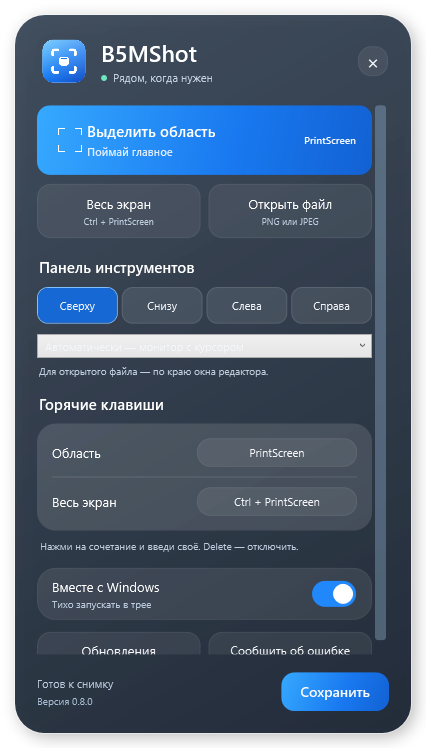
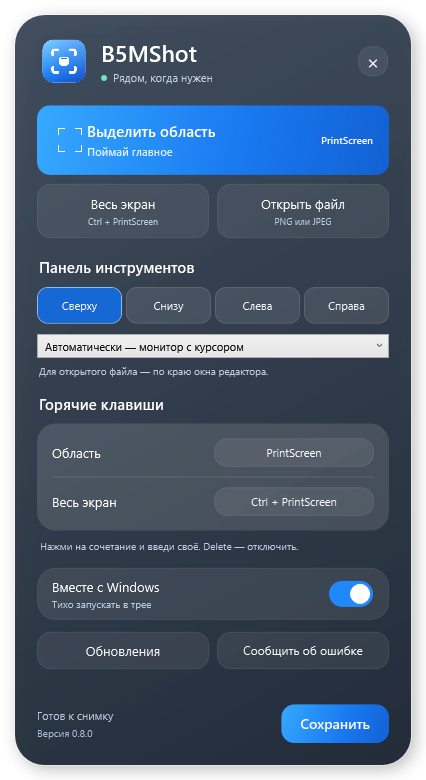
Polish release settings and align COM exports with Windows SDK

Changed region(s): [[0.061, 0.0615, 0.9155, 0.9532], [0.8545, 0.0615, 0.885, 0.0922]]

diff --git a/src/B5MShot.App/MainWindow.xaml b/src/B5MShot.App/MainWindow.xaml
@@ -1,7 +1,7 @@
 <Window x:Class="B5MShot.App.MainWindow"
  xmlns="http://schemas.microsoft.com/winfx/2006/xaml/presentation" xmlns:x="http://schemas.microsoft.com/winfx/2006/xaml"
  xmlns:motion="clr-namespace:B5MShot.App.Controls"
- Title="B5MShot" Icon="/Assets/logo.png" Width="426" Height="748"
+ Title="B5MShot" Icon="/Assets/logo.png" Width="426" Height="780"
  WindowStyle="None" ResizeMode="NoResize" ShowInTaskbar="False" WindowStartupLocation="Manual"
  Topmost="True" AllowsTransparency="True" Background="Transparent" PreviewKeyDown="Window_PreviewKeyDown">
  <Window.Resources>
@@ -56,7 +56,7 @@
       </Grid>
       <TextBlock Text="Панель инструментов" Foreground="White" FontSize="15" FontWeight="SemiBold" Margin="2,0,0,8"/>
       <UniformGrid x:Name="EdgeChoices" Columns="4" Margin="-2,0,-2,8"><RadioButton Content="Сверху" Tag="Top" GroupName="HudEdge" Style="{StaticResource EdgeChoice}"/><RadioButton Content="Снизу" Tag="Bottom" GroupName="HudEdge" Style="{StaticResource EdgeChoice}"/><RadioButton Content="Слева" Tag="Left" GroupName="HudEdge" Style="{StaticResource EdgeChoice}"/><RadioButton Content="Справа" Tag="Right" GroupName="HudEdge" Style="{StaticResource EdgeChoice}"/></UniformGrid>
-      <ComboBox x:Name="ToolbarMonitorBox" DisplayMemberPath="Label" SelectedValuePath="DeviceName" FontSize="11" Padding="8,5" Margin="0,0,0,6" AutomationProperties.Name="Монитор для панели инструментов"/>
+      <ComboBox x:Name="ToolbarMonitorBox" SelectedValuePath="DeviceName" FontSize="11" Padding="8,5" Margin="0,0,0,6" AutomationProperties.Name="Монитор для панели инструментов"><ComboBox.ItemTemplate><DataTemplate><TextBlock Text="{Binding Label}" Foreground="#111111" FontSize="11"/></DataTemplate></ComboBox.ItemTemplate></ComboBox>
       <TextBlock Text="Для открытого файла — по краю окна редактора." Foreground="#C0CEDF" FontSize="10" Margin="2,0,0,16"/>
       <TextBlock Text="Горячие клавиши" Foreground="White" FontSize="15" FontWeight="SemiBold" Margin="2,0,0,10" motion:Motion.TextReveal="True"/>
       <Border Background="#20FFFFFF" BorderBrush="#20FFFFFF" BorderThickness="1" CornerRadius="18" Padding="14,4">

diff --git a/src/B5MShot.App/Views/UpdateWindow.xaml.cs b/src/B5MShot.App/Views/UpdateWindow.xaml.cs
@@ -46,7 +46,7 @@ public partial class UpdateWindow : Window
             Process.Start(new ProcessStartInfo(installer) { UseShellExecute = true });
             ((App)System.Windows.Application.Current).ExitApplication();
         }
-        catch(OperationCanceledException) { }
+        catch(OperationCanceledException) { if(IsVisible && !_download.IsCancellationRequested) ReleaseNotesText.Text="Загрузка заняла слишком много времени. Проверьте соединение и повторите попытку."; }
         catch (Exception exception)
         {
             ErrorLogService.Write(exception, "Installing update");

diff --git a/src/B5MShot.ContextMenu/ExplorerCommand.cpp b/src/B5MShot.ContextMenu/ExplorerCommand.cpp
@@ -315,7 +315,7 @@ extern "C" BOOL WINAPI DllMain(HINSTANCE instance, DWORD reason, LPVOID)
     return TRUE;
 }
 
-extern "C" __declspec(dllexport) HRESULT WINAPI DllGetClassObject(REFCLSID clsid, REFIID iid, void** object)
+STDAPI DllGetClassObject(REFCLSID clsid, REFIID iid, void** object)
 {
     if (clsid != CommandClsid)
     {
@@ -333,7 +333,7 @@ extern "C" __declspec(dllexport) HRESULT WINAPI DllGetClassObject(REFCLSID clsid
     return result;
 }
 
-extern "C" __declspec(dllexport) HRESULT WINAPI DllCanUnloadNow()
+STDAPI DllCanUnloadNow()
 {
     return g_objectCount == 0 && g_serverLocks == 0 ? S_OK : S_FALSE;
 }

diff --git a/CHANGELOG.md b/CHANGELOG.md
@@ -1,5 +1,15 @@
 # История изменений
 
+## 0.8.0
+
+- панель с четырёх сторон экрана, выбор монитора и сохранение расположения;
+- вертикальные боковые инструменты и палитра, раскрывающаяся внутрь;
+- единый стеклянный стиль приложения, трея, сайта и обновлённые логотипы;
+- плавные прерываемые анимации, чёткая обводка и ускоренный захват;
+- автоматическая проверка GitHub Releases и подтверждаемая установка с SHA-256;
+- установщик больше не закрывает несохранённые редакторы принудительно;
+- полноценный подписанный установщик, переносимая версия и контрольные суммы.
+
 ## 0.6.0
 
 - добавлен единый установщик с подтверждением прав администратора;
